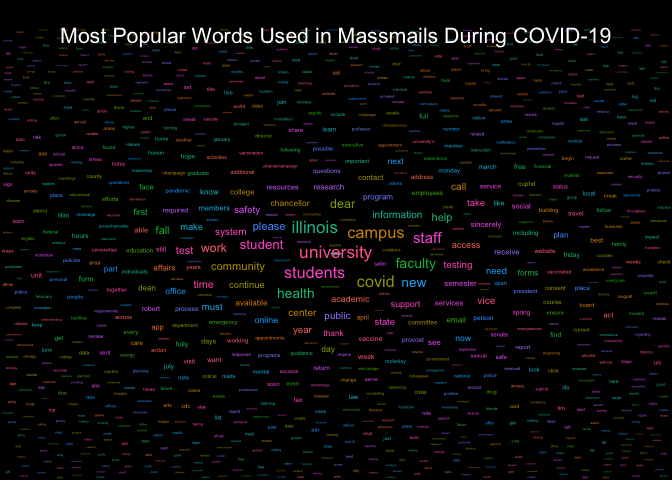
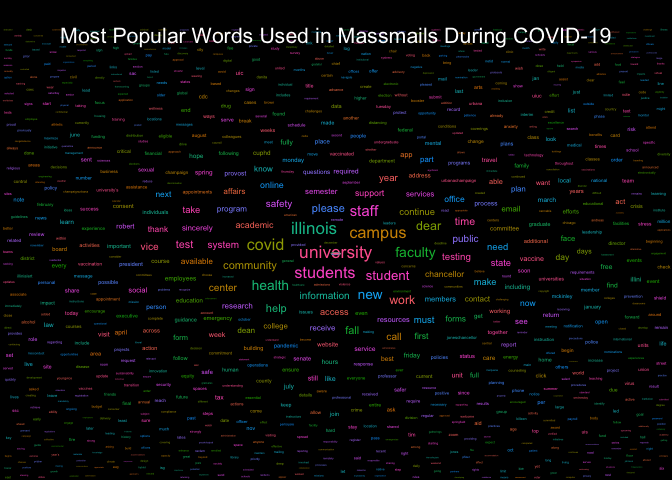
Re-build README.Rmd and Graphs

Changed region(s): [[0.0, 0.0625, 1.0, 1.0]]

diff --git a/README.md b/README.md
@@ -17,7 +17,7 @@ The archive may be viewed here:
 
 <https://massmail.illinois.edu/massmailArchive>
 
-Data has **779** observations and **7** variables:
+Data has **781** observations and **7** variables:
 
 - `datetime`: Date and time when the email was sent in the form of
   `YYYY-MM-DD HMS` with either CDT or CST.
@@ -208,18 +208,18 @@ head(most_popular_words, 10) %>%
   knitr::kable(row.names = FALSE)
 ```
 
-| word       | freq |
-|:-----------|-----:|
-| university | 2209 |
-| students   | 1839 |
-| campus     | 1644 |
-| illinois   | 1480 |
-| student    | 1080 |
-| covid      | 1070 |
-| faculty    | 1061 |
-| community  | 1009 |
-| health     | 1001 |
-| staff      |  906 |
+| word        | freq |
+|:------------|-----:|
+| university  | 2219 |
+| students    | 1853 |
+| campus      | 1651 |
+| illinois    | 1483 |
+| student     | 1085 |
+| covid       | 1070 |
+| faculty     | 1063 |
+| community   | 1011 |
+| health      | 1001 |
+| information |  909 |
 
 #### Wordcloud
 
